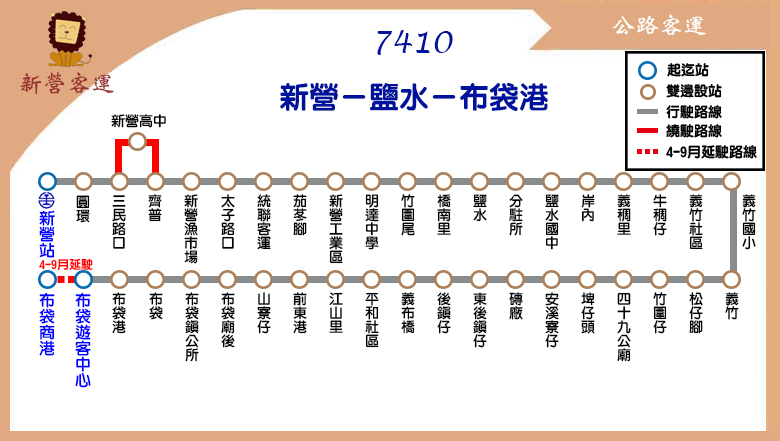
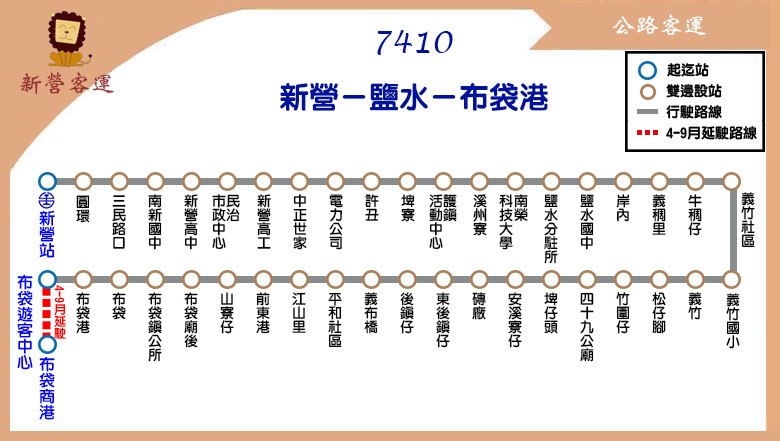
更新路線、時刻表、票價表：7408、7410

diff --git a/route/fare_and_time/highway_bus_7410.js b/route/fare_and_time/highway_bus_7410.js
@@ -1,8 +1,9 @@
-highway_bus_7410_interval_name = ["新營","茄苳腳","鹽水","牛稠仔","義竹<br />社區","義竹","安溪<br />寮仔","後鎮仔","前東港","布袋港","遊客<br />中心","布袋<br />商港"];
+highway_bus_7410_interval_name = ["新營","埤寮","溪州寮","鹽水<br />分駐所","牛稠仔","義竹<br />社區","義竹","安溪<br />寮仔","後鎮仔","前東港","布袋港","遊客<br />中心","布袋<br />商港"];
 highway_bus_7410_interval_stop = [
-["新營站","圓環","三民路口","新營高中","齊普","新營漁市場","太子路口","統聯客運"], // 新營
-["茄苳腳","新營工業區","明達中學"], // 茄苳腳
-["竹圍尾","橋南里","鹽水","分駐所","鹽水國中"], // 鹽水
+["新營站","圓環","三民路口","南新國中","新營高中","民治市政中心","新營高工","中正世家","電力公司","許丑"], // 新營
+["埤寮","護鎮活動中心"], // 埤寮
+["溪州寮","南榮科技大學"], // 溪州寮
+["鹽水分駐所","鹽水國中"], // 鹽水分駐所
 ["岸內","義稠里","牛稠仔"], // 牛稠仔
 ["義竹社區"], // 義竹社區
 ["義竹國小","義竹","松仔腳","竹圍仔"], // 義竹
@@ -13,34 +14,34 @@ highway_bus_7410_interval_stop = [
 ["布袋遊客中心"],  // 遊客中心
 ["布袋商港"] // 布袋商港
 ];
-highway_bus_7410_stop_time_consume = [];
 highway_bus_7410_fare = [
-[24,21,21,25,28,30,40,44,51,59,61,67],
-[24,24,21,21,21,21,27,32,38,46,48,54],
-[24,24,24,21,21,21,21,24,30,38,40,46],
-[28,24,24,24,21,21,21,21,26,35,36,42],
-[32,24,24,24,24,21,21,21,23,31,33,39],
-[34,24,24,24,24,24,21,21,21,29,31,37],
-[45,30,24,24,24,24,24,21,21,21,21,27],
-[50,36,27,24,24,24,24,24,21,21,21,22],
-[57,43,34,29,26,24,24,24,24,21,21,21],
-[67,52,43,39,36,33,24,24,24,24,21,21],
-[69,54,45,41,37,35,24,24,24,24,24,21],
-[76,61,52,48,44,42,30,25,24,24,24,24]
+[24],
+[24,24],
+[25,24,24],
+[33,24,24,24],
+[36,24,24,24,24],
+[40,24,24,24,24,24],
+[42,26,24,24,24,24,24],
+[53,37,28,24,24,24,24,24],
+[58,42,33,25,24,24,24,24,24],
+[65,49,40,32,29,25,24,24,24,24],
+[74,59,50,41,38,35,33,24,24,24,24],
+[76,60,52,43,40,36,34,24,24,24,24,24],
+[83,67,58,50,46,43,41,30,25,24,24,24,24]
 ];
 // format = [time at the start stop] or
 // [time, other] or
 // [time, start_stop, end_stop, other]
-highway_bus_7410_main_stop_name = ["新營","鹽水","義竹","前東港","布袋<br />遊客中心","布袋商港<br /><font color=\"red\">(4-9月延駛)</font>"];
-highway_bus_7410_main_stop_time_consume = [0,18,25,37,43,46];
-highway_bus_7410_important_stop = [0, 1, 4]; // 新營, 鹽水, 布袋遊客中心
+highway_bus_7410_main_stop_name = ["新營","鹽水<br />分駐所","義竹","前東港","布袋<br />遊客中心","布袋商港<br /><font color=\"red\">(4-9月延駛)</font>"];
+highway_bus_7410_main_stop_time_consume = [0,21,27,39,45,50];
+highway_bus_7410_important_stop = [0, 1, 4, 5]; // 新營, 鹽水分駐所, 布袋遊客中心, 布袋商港
 stop_0 = 0; // 新營
 stop_1 = 4; // 布袋遊客中心
 highway_bus_7410_time_go = [
-["07:30",stop_0,stop_1],["08:20"],["08:50"],["10:00",stop_0,stop_1],["11:00",stop_0,stop_1],["12:40",stop_0,stop_1],
-["15:00",stop_0,stop_1],["17:05",stop_0,stop_1,['繞',[1,5]]],["18:00"],["18:50",stop_0,stop_1]
+["07:30",stop_0,stop_1],["08:20"],["08:50",['L']],["10:20",stop_0,stop_1],["12:10",stop_0,stop_1],["13:50",stop_0,stop_1],
+["15:10",stop_0,stop_1],["17:05",stop_0,stop_1],["18:00"],["18:50",stop_0,stop_1]
 ];
 highway_bus_7410_time_return = [
-["05:58",stop_1,stop_0,['繞',[0,5]]],["08:18",stop_1,stop_0],["09:20"],["09:50"],["10:48",stop_1,stop_0],["11:48",stop_1,stop_0],
-["13:28",stop_1,stop_0],["15:48",stop_1,stop_0],["18:08",stop_1,stop_0],["19:00"]
+["06:00",stop_1,stop_0],["08:20",stop_1,stop_0],["09:20"],["09:50",['L']],["11:10",stop_1,stop_0],["13:00",stop_1,stop_0],
+["14:40",stop_1,stop_0],["16:00",stop_1,stop_0],["18:05",stop_1,stop_0],["19:00"]
 ];

diff --git a/route/fare_and_time/highway_bus_7408.js b/route/fare_and_time/highway_bus_7408.js
@@ -1,11 +1,12 @@
-highway_bus_7408_interval_name = ["新營","茄苳腳","鹽水","牛稠仔","義竹<br />社區","義竹","頭竹圍","新富村","過路仔","竿仔寮","新塭","南鯤鯓","好美里"];
+highway_bus_7408_interval_name = ["新營","埤寮","溪州寮","鹽水<br />分駐所","牛稠仔","義竹<br />社區","義竹","頭竹圍","新富村","過路仔","竿仔寮","新塭","南鯤鯓","好美里"];
 highway_bus_7408_interval_stop = [
-["新營站","圓環","三民路口","齊普","新營漁市場","太子路口","統聯客運"], // 新營
-["茄苳腳","新營工業區","明達中學"], // 茄苳腳
-["竹圍尾","橋南里","鹽水","分駐所","鹽水國中"], // 鹽水
+["新營站","圓環","三民路口","南新國中","新營高中","民治市政中心","新營高工","中正世家","電力公司","許丑"], // 新營
+["埤寮","護鎮活動中心"], // 埤寮
+["溪州寮","南榮科技大學"], // 溪州寮
+["鹽水分駐所","鹽水國中"], // 鹽水分駐所
 ["岸內","義稠里","牛稠仔"], // 牛稠仔
 ["義竹社區"], // 義竹社區
-["義竹國小","義竹"], // 義竹
+["義竹國小","義竹","義竹仁里"], // 義竹
 ["頭竹圍"], // 頭竹圍
 ["新富村"], // 新富村
 ["東過路仔","過路仔"], // 過路仔
@@ -14,27 +15,27 @@ highway_bus_7408_interval_stop = [
 ["南鯤鯓(代天府)"], // 南鯤鯓
 ["好美里"] // 好美里
 ];
-highway_bus_7408_stop_time_consume = [];
 highway_bus_7408_fare = [
-[24,21,21,25,28,30,34,39,47,53,63,76,71],
-[24,24,21,21,21,21,21,26,34,40,49,63,57],
-[24,24,24,21,21,21,21,21,26,32,41,55,50],
-[28,24,24,24,21,21,21,21,22,28,38,51,46],
-[32,24,24,24,24,21,21,21,21,25,34,48,42],
-[34,24,24,24,24,24,21,21,21,23,33,46,41],
-[39,24,24,24,24,24,24,21,21,21,28,41,36],
-[44,29,24,24,24,24,24,24,21,21,23,37,31],
-[53,38,29,25,24,24,24,24,24,21,21,29,24],
-[60,45,36,32,28,26,24,24,24,24,21,23,21],
-[71,56,47,43,39,37,32,26,24,24,24,21,21],
-[86,71,62,58,54,52,47,41,33,26,24,24,21],
-[80,65,56,52,48,46,41,36,27,24,24,24,24]
+[24],
+[24,24],
+[25,24,24],
+[33,24,24,24],
+[36,24,24,24,24],
+[40,24,24,24,24,24],
+[42,26,24,24,24,24,24],
+[47,31,24,24,24,24,24,24],
+[52,36,28,24,24,24,24,24,24],
+[60,45,36,28,24,24,24,24,24,24],
+[67,51,42,34,31,27,25,24,24,24,24],
+[78,62,53,45,42,38,36,31,26,24,24,24],
+[92,77,68,60,56,53,51,46,40,32,25,24,24],
+[86,71,62,54,50,47,45,40,34,26,24,24,24,24]
 ];
 // format = [time at the start stop] or
 // [time, other] or
 // [time, start_stop, end_stop, other]
-highway_bus_7408_main_stop_name = ["新營","鹽水","義竹","新塭","南鯤鯓<br />(代天府)","好美里"];
-highway_bus_7408_main_stop_time_consume = [0,18,25,45,53,65];
-highway_bus_7408_important_stop = [0, 1, 4, 5]; // 新營, 鹽水, 南鯤鯓(代天府), 好美里
-highway_bus_7408_time_go = [["07:00"],["08:00"],["09:00"],["11:10"],["13:35"],["14:45"],["17:20"],["19:00"]];
-highway_bus_7408_time_return = [["06:00"],["08:10"],["09:10"],["10:10"],["12:20"],["14:45"],["15:55"],["18:30"]];
+highway_bus_7408_main_stop_name = ["新營","鹽水<br />分駐所","義竹","新塭","南鯤鯓<br />(代天府)","好美里"];
+highway_bus_7408_main_stop_time_consume = [0,21,27,48,57,70];
+highway_bus_7408_important_stop = [0, 1, 4, 5]; // 新營, 鹽水分駐所, 南鯤鯓(代天府), 好美里
+highway_bus_7408_time_go = [["07:00"],["08:00"],["09:20"],["11:10",['L']],["12:40"],["14:25"],["17:30"],["19:00"]];
+highway_bus_7408_time_return = [["06:00"],["08:15"],["09:15"],["10:35"],["12:25",['L']],["13:55"],["15:40"],["18:45"]];

diff --git a/highway/7410.html b/highway/7410.html
@@ -22,9 +22,9 @@
 	block_header();
 	block_route_map(null);
 	block_route_info(route_interval,'新營客運','','里程計費','http://www.taiwanbus.tw/information.aspx?Line=9498&Lang=" target="_blank');
-	block_fare(10,'<h3>刷卡票價僅供參考，誤差為1元上下</h3>');
-	block_time_schedule('新營','布袋遊客中心/布袋商港','「<font color="red">繞</font>」表示行駛繞駛新營高中');
-	block_transfer(transfer_hsinyin + transfer_yanshui);
+	block_fare_highway('8km18','');
+	block_time_schedule('新營','布袋遊客中心/布袋商港',L_message+'<h3><span style="color: blue;">僅4-9月延駛布袋商港</span>，其餘月份起迄點改為布袋遊客中心</h3>');
+	block_transfer(transfer_hsinyin);
 	block_copyright();
 </script>
 </body>

diff --git a/tools/show_fare_tool.js b/tools/show_fare_tool.js
@@ -35,6 +35,9 @@ function query_fare(theForm, fare_array, fare_type){
 		case '8km':
 			card_price = price - 26;
 			break;
+		case '8km18':
+			card_price = Math.round(price * HIGHWAY_CARD_PRICE_RATIO) - (HIGHWAY_CARD_PRICE_BASE - 18);
+			break;
 		case 'Kaohsiung':
 			card_price = price;
 			var ipass_price = price - 12; // 使用「一卡通」上車刷卡現折12元
@@ -74,6 +77,9 @@ function print_fare_table(interval_name, fare, color, fare_type){ // the functio
 				switch(fare_type) {
 					case '8km':
 						card_price = fare[j][i] - 26;
+						break;
+					case '8km18':
+						card_price = Math.round(fare[j][i] * HIGHWAY_CARD_PRICE_RATIO) - (HIGHWAY_CARD_PRICE_BASE - 18);
 						break;
 					case 'Kaohsiung':
 						card_price = fare[j][i];

diff --git a/highway/7408.html b/highway/7408.html
@@ -22,9 +22,9 @@
 	block_header();
 	block_route_map(null);
 	block_route_info(route_interval,'新營客運','','里程計費','http://www.taiwanbus.tw/information.aspx?Line=1812&Lang=" target="_blank');
-	block_fare(10,'<h3>刷卡票價僅供參考，誤差為1元上下</h3>');
-	block_time_schedule('新營','好美里','');
-	block_transfer(transfer_hsinyin + transfer_yanshui + transfer_south_kunshen);
+	block_fare_highway('8km18','');
+	block_time_schedule('新營','好美里',L_message);
+	block_transfer(transfer_hsinyin + transfer_south_kunshen);
 	block_copyright();
 </script>
 </body>
